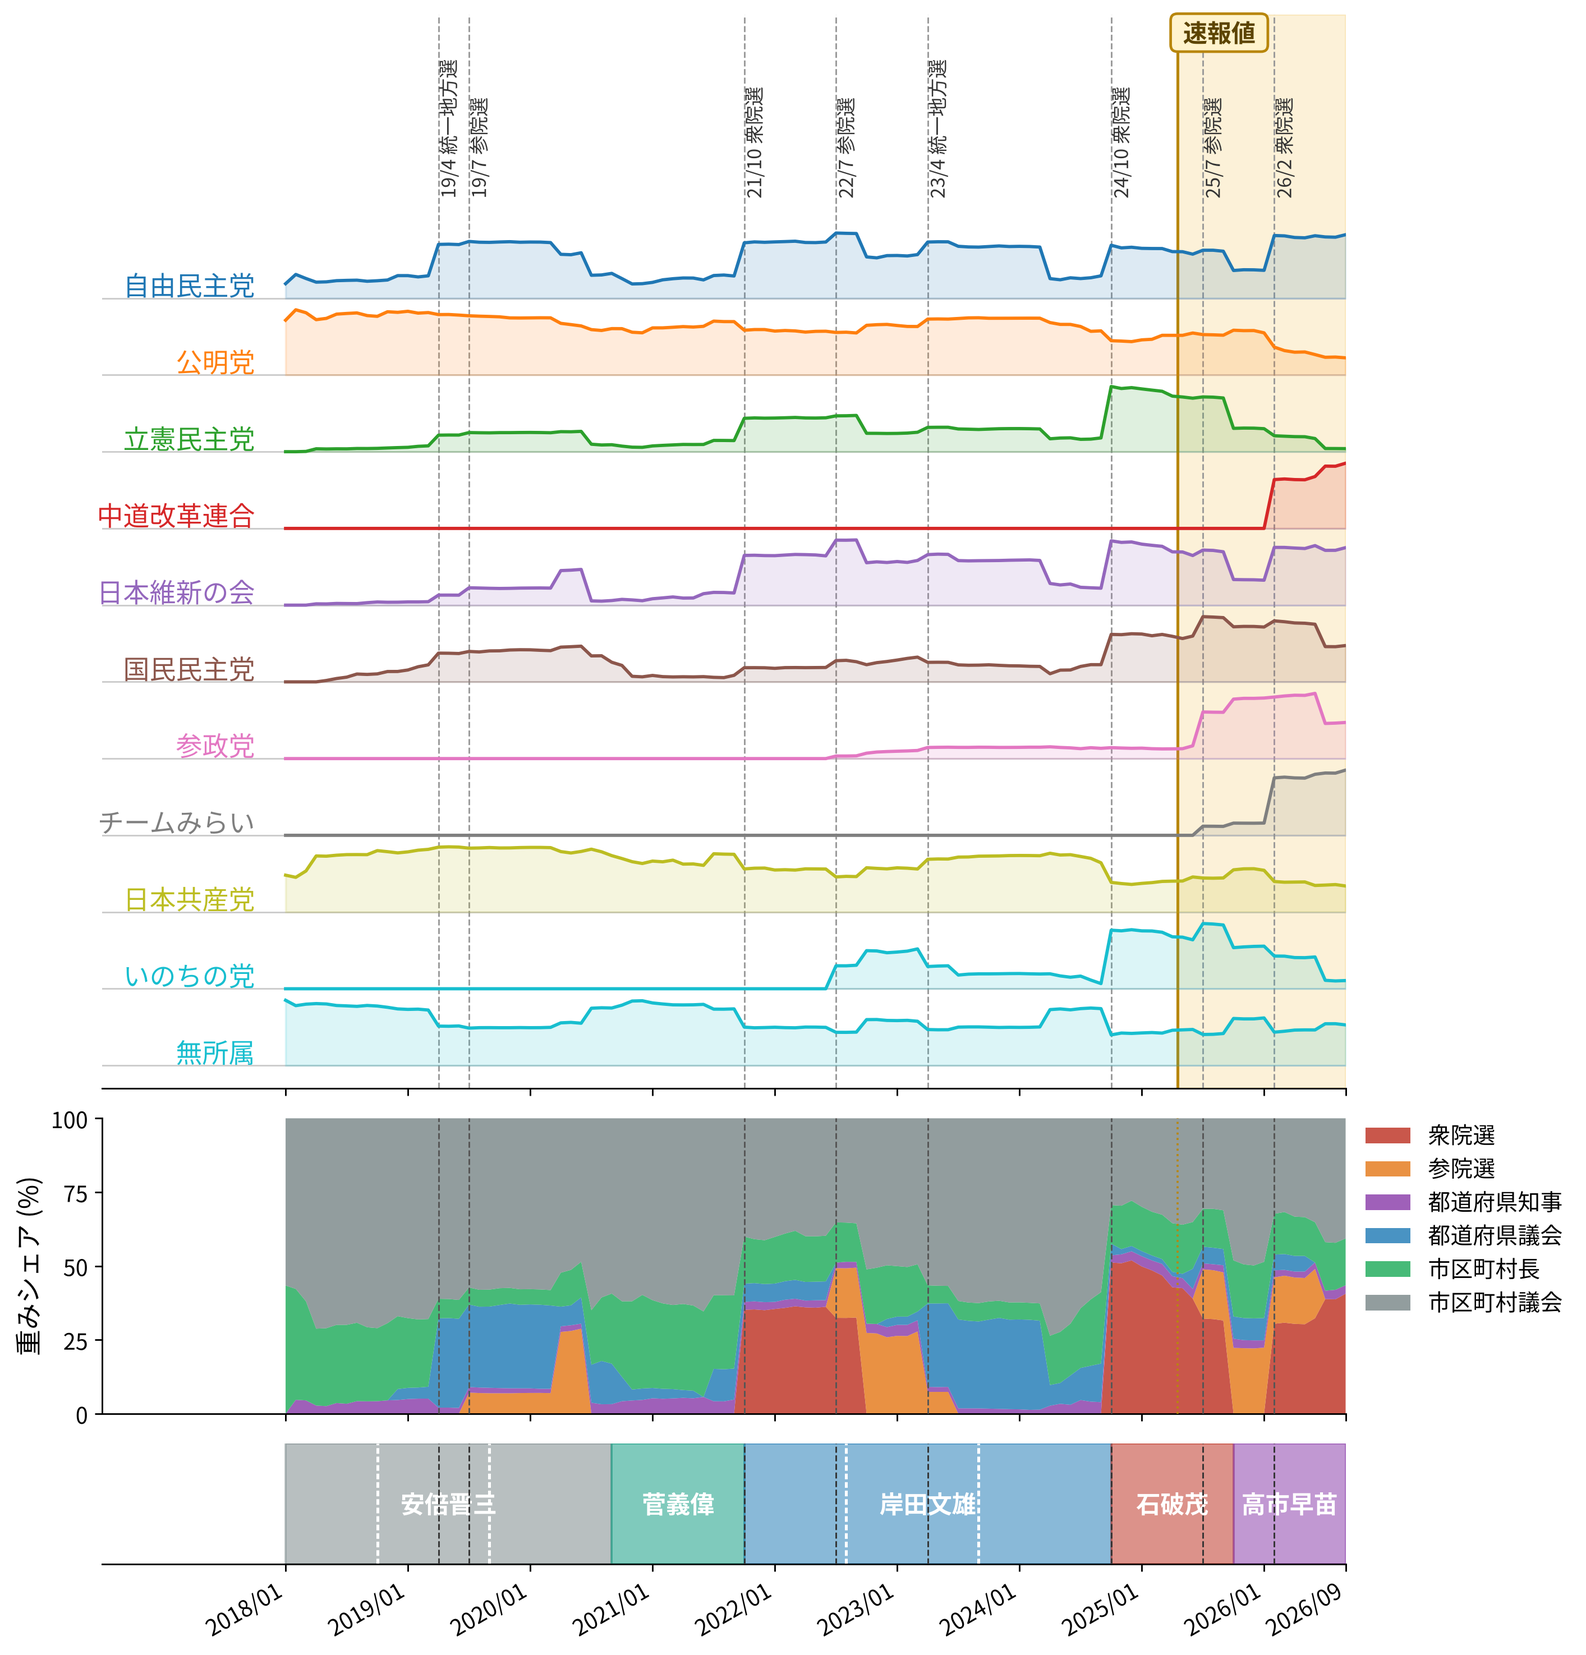
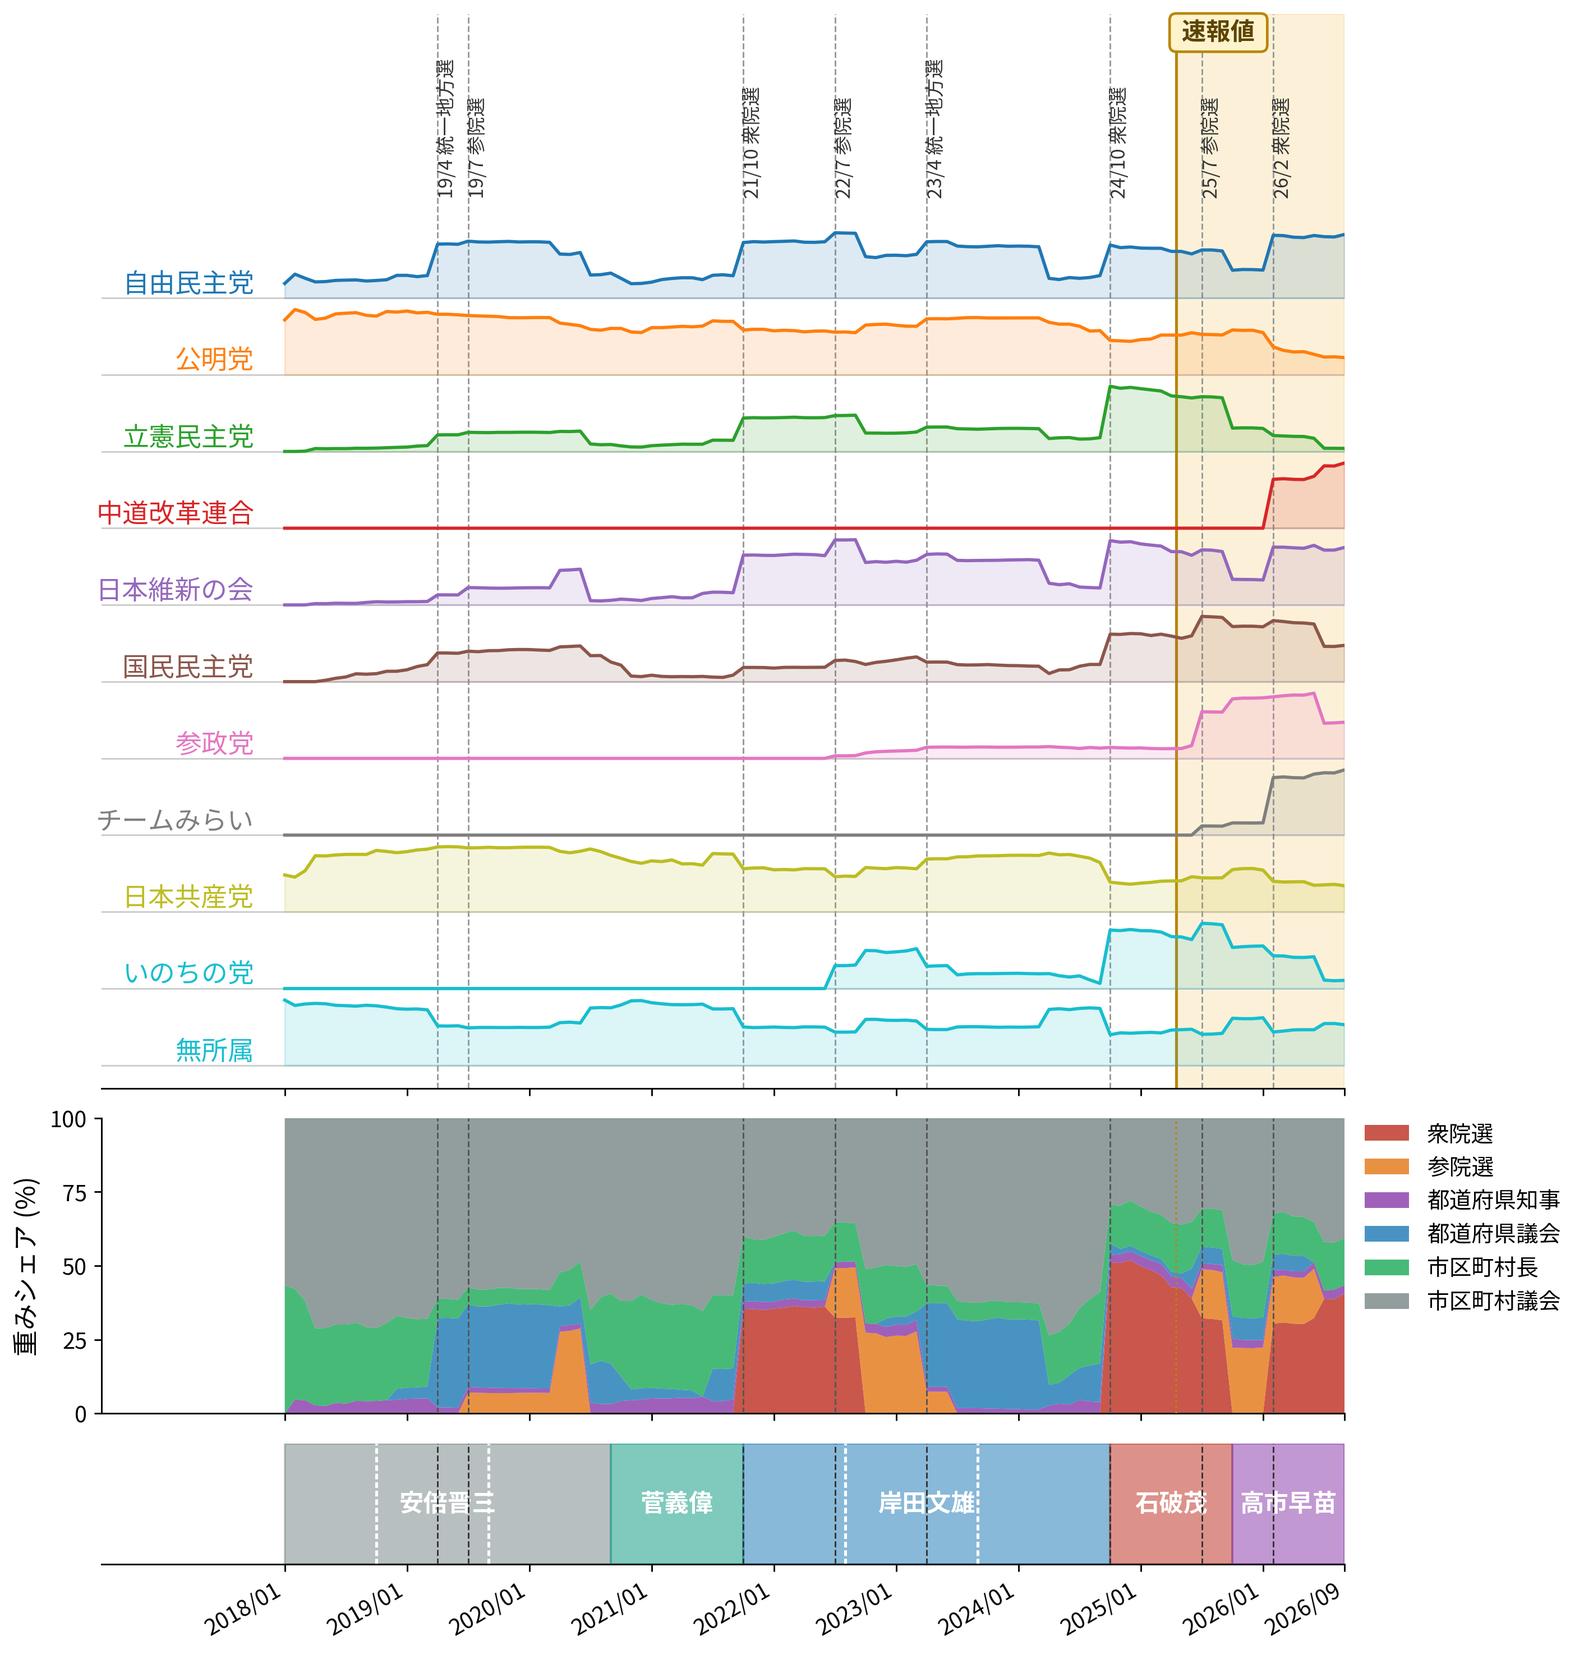
選挙結果キャッシュが新しい選挙を永久に反映しない不具合を修正し、更新クロールを別タイマーに分離する
- turnover.build_term_chain_cache()・municipal_registry.build_gikai_term_chain_cache()は
  done_idsに入った自治体を二度と再取得しない設計で、新しい首長・議会選挙が実施されても
  自動では反映されなかった(沖縄県知事選で発覚。1785自治体中、直近の当選から4年以上
  経過していた11件のうち1件がまさに沖縄県で、今回の選挙が該当していた)
- go2senkyo.jurisdiction_history()にforce引数を追加し、既にdone扱いの自治体を
  強制的に再確認してdone_idsから外すrefresh_stale_term_chains/refresh_stale_gikai_term_chains、
  および見つかった対象だけを再構築するrefresh_and_rebuild_*系の関数を追加した
- 記事生成(cli.py、毎月7日)とは別に、更新クロール専用のsystemdタイマー
  (seiryoku-shisu-refresh、毎月5日、数時間かかる見込みのためTimeoutStartSec=0)を新設した

Claude-Session: https://claude.ai/code/session_01TVss3nsN6jZajUMk5rKKyi

diff --git a/tests/test_turnover.py b/tests/test_turnover.py
@@ -302,7 +302,7 @@ def test_build_term_chain_stops_once_min_year_reached(monkeypatch):
         _row("A市長選挙", "2017/04/23", detail_url="https://x/3"),
         _row("A市長選挙", "2013/04/07", detail_url="https://x/4"),  # min_yearより前なので到達不要
     ]
-    monkeypatch.setattr(turnover.go2senkyo, "jurisdiction_history", lambda jid, kind: history)
+    monkeypatch.setattr(turnover.go2senkyo, "jurisdiction_history", lambda jid, kind, force=False: history)
 
     parties = {
         "https://x/1": "自由民主党",
@@ -330,7 +330,7 @@ def test_build_term_chain_stops_at_end_of_history_before_min_year(monkeypatch):
     history = [
         _row("A市長選挙", "2021/04/11", detail_url="https://x/1"),
     ]
-    monkeypatch.setattr(turnover.go2senkyo, "jurisdiction_history", lambda jid, kind: history)
+    monkeypatch.setattr(turnover.go2senkyo, "jurisdiction_history", lambda jid, kind, force=False: history)
     monkeypatch.setattr(
         turnover.go2senkyo,
         "parse_candidates",
@@ -340,6 +340,88 @@ def test_build_term_chain_stops_at_end_of_history_before_min_year(monkeypatch):
     chain = _build_term_chain(1, min_year=2000)
 
     assert chain == [{"vote_date": "2021-04-11", "party": "自由民主党"}]
+
+
+def test_refresh_stale_term_chains_keeps_id_when_no_newer_election(monkeypatch, tmp_path):
+    cache_path = tmp_path / "executive_term_chains.json"
+    monkeypatch.setattr(turnover, "TERM_CHAIN_CACHE_PATH", cache_path)
+    turnover.save_term_chain_cache(
+        {"chains": {"1": [{"vote_date": "2022-09-11", "party": "無所属"}]}, "done_ids": [1], "errors": {}}
+    )
+
+    history = [_row("沖縄県知事選挙", "2022/09/11", detail_url="https://x/1")]
+
+    def fake_history(jid, kind, force=False):
+        assert force is True, "強制再取得(force=True)でないと新しい選挙を見逃す"
+        return history
+
+    monkeypatch.setattr(turnover.go2senkyo, "jurisdiction_history", fake_history)
+
+    stats = turnover.refresh_stale_term_chains([1])
+
+    assert stats == {"checked": 1, "stale": []}
+    assert turnover.load_term_chain_cache()["done_ids"] == [1]
+
+
+def test_refresh_stale_term_chains_removes_id_when_newer_election_found(monkeypatch, tmp_path):
+    cache_path = tmp_path / "executive_term_chains.json"
+    monkeypatch.setattr(turnover, "TERM_CHAIN_CACHE_PATH", cache_path)
+    turnover.save_term_chain_cache(
+        {"chains": {"3962": [{"vote_date": "2022-09-11", "party": "無所属"}]}, "done_ids": [3962], "errors": {}}
+    )
+
+    history = [
+        _row("沖縄県知事選挙", "2026/09/13", detail_url="https://x/new"),
+        _row("沖縄県知事選挙", "2022/09/11", detail_url="https://x/1"),
+    ]
+    monkeypatch.setattr(turnover.go2senkyo, "jurisdiction_history", lambda jid, kind, force=False: history)
+
+    stats = turnover.refresh_stale_term_chains([3962])
+
+    assert stats == {"checked": 1, "stale": [3962]}
+    assert turnover.load_term_chain_cache()["done_ids"] == []
+
+
+def test_refresh_stale_term_chains_skips_ids_that_error_without_crashing(monkeypatch, tmp_path):
+    cache_path = tmp_path / "executive_term_chains.json"
+    monkeypatch.setattr(turnover, "TERM_CHAIN_CACHE_PATH", cache_path)
+    turnover.save_term_chain_cache({"chains": {}, "done_ids": [1], "errors": {}})
+
+    def boom(jid, kind, force=False):
+        raise RuntimeError("network down")
+
+    monkeypatch.setattr(turnover.go2senkyo, "jurisdiction_history", boom)
+
+    stats = turnover.refresh_stale_term_chains([1])
+
+    assert stats == {"checked": 1, "stale": []}
+    assert turnover.load_term_chain_cache()["done_ids"] == [1]
+
+
+def test_refresh_and_rebuild_term_chains_rebuilds_only_the_stale_id(monkeypatch, tmp_path):
+    cache_path = tmp_path / "executive_term_chains.json"
+    monkeypatch.setattr(turnover, "TERM_CHAIN_CACHE_PATH", cache_path)
+    turnover.save_term_chain_cache(
+        {"chains": {"3962": [{"vote_date": "2022-09-11", "party": "無所属"}]}, "done_ids": [3962], "errors": {}}
+    )
+
+    history = [
+        _row("沖縄県知事選挙", "2026/09/13", detail_url="https://x/new"),
+        _row("沖縄県知事選挙", "2022/09/11", detail_url="https://x/1"),
+    ]
+    monkeypatch.setattr(turnover.go2senkyo, "jurisdiction_history", lambda jid, kind, force=False: history)
+    monkeypatch.setattr(
+        turnover.go2senkyo,
+        "parse_candidates",
+        lambda url: [Candidate(name="甲", party="無所属", elected=True)],
+    )
+
+    stats = turnover.refresh_and_rebuild_term_chains([3962])
+
+    assert stats["stale"] == [3962]
+    state = turnover.load_term_chain_cache()
+    assert state["done_ids"] == [3962]  # build_term_chain_cacheで再度done扱いになる
+    assert state["chains"]["3962"][0]["vote_date"] == "2026-09-13"
 
 
 def test_build_turnover_month_snapshots_reconstructs_every_transition_in_chain(monkeypatch):

diff --git a/src/seiryoku/turnover.py b/src/seiryoku/turnover.py
@@ -150,10 +150,10 @@ def build_predecessor_cache(jichitai_ids: list[int] | None = None, checkpoint_ev
 TERM_CHAIN_CACHE_PATH = Path(__file__).resolve().parents[2] / "data" / "executive_term_chains.json"
 
 
-def _all_completed(jichitai_id: int) -> list:
+def _all_completed(jichitai_id: int, force: bool = False) -> list:
     """未定・投票率不明を除いた完了済み選挙を新しい順に全件返す
     (_two_most_recent_completedの「直近2件」制限を外した版)。"""
-    history = go2senkyo.jurisdiction_history(jichitai_id, "head")
+    history = go2senkyo.jurisdiction_history(jichitai_id, "head", force=force)
     return [
         row
         for row in history
@@ -229,6 +229,55 @@ def build_term_chain_cache(
 
     save_term_chain_cache(state)
     return state
+
+
+def refresh_stale_term_chains(jichitai_ids: list[int] | None = None) -> dict:
+    """done_ids入りした自治体は、build_term_chain_cache()が二度と再取得しない
+    (中断・再開可能にするための恒久スキップ)。そのため新しい首長選挙が実施されても
+    永久に反映されない不具合がある(2026-09、沖縄県知事選で発覚)。
+
+    この関数は既にdone_idsに入っている自治体について、go2senkyoの最新ページを
+    強制的に(util.fetchのキャッシュを無視して)再取得し、キャッシュ済みチェーンの
+    先頭より新しい完了済み選挙が無いか確認する。見つかればdone_idsから外し、
+    次にbuild_term_chain_cache()を呼んだときにそのIDだけが再構築されるようにする。
+
+    1788自治体を約4秒間隔(go2senkyo.comのレート制限)で確認するため数時間かかる
+    見込み。記事生成本体とは別の月次ジョブとして実行する想定(refresh_cli.py参照)。
+    """
+    state = load_term_chain_cache()
+    ids = jichitai_ids if jichitai_ids is not None else list(state["done_ids"])
+
+    stale: list[int] = []
+    for jid in ids:
+        try:
+            completed = _all_completed(jid, force=True)
+        except Exception:
+            continue
+        if not completed:
+            continue
+        newest_date = completed[0].vote_date.replace("/", "-")
+        cached_chain = state["chains"].get(str(jid), [])
+        cached_top = cached_chain[0]["vote_date"] if cached_chain else None
+        if newest_date != cached_top:
+            stale.append(jid)
+
+    if stale:
+        stale_set = set(stale)
+        state["done_ids"] = [jid for jid in state["done_ids"] if jid not in stale_set]
+        save_term_chain_cache(state)
+
+    return {"checked": len(ids), "stale": stale}
+
+
+def refresh_and_rebuild_term_chains(jichitai_ids: list[int] | None = None) -> dict:
+    """refresh_stale_term_chains()で見つかった更新対象だけを、その場でbuild_term_chain_cache()
+    により再構築する。build_term_chain_cache()をjichitai_ids無しで呼ぶと
+    「まだ一度もdoneになっていない全自治体」まで対象になってしまうため、
+    見つかったstaleなIDだけを明示的に渡す。"""
+    stats = refresh_stale_term_chains(jichitai_ids)
+    if stats["stale"]:
+        build_term_chain_cache(jichitai_ids=stats["stale"])
+    return stats
 
 
 def _predecessor_endorsing_parties(

diff --git a/tests/test_municipal_registry.py b/tests/test_municipal_registry.py
@@ -111,3 +111,69 @@ def test_all_completed_gikai_excludes_unheld_and_uncontested():
     ]
     completed = mr._all_completed_gikai(history)
     assert [row.detail_url for row in completed] == ["https://x/1"]
+
+
+def test_refresh_stale_gikai_term_chains_keeps_id_when_no_newer_election(monkeypatch, tmp_path):
+    cache_path = tmp_path / "gikai_term_chains.json"
+    monkeypatch.setattr(mr, "GIKAI_TERM_CHAIN_CACHE_PATH", cache_path)
+    mr.save_gikai_term_chain_cache(
+        {"chains": {"1": [{"vote_date": "2023-04-09", "seats": {"自由民主党": 1}}]}, "done_ids": [1], "errors": {}}
+    )
+
+    history = [_history_row("A市議会議員選挙", "2023/04/09", detail_url="https://x/1")]
+
+    def fake_history(jid, kind, force=False):
+        assert force is True, "強制再取得(force=True)でないと新しい選挙を見逃す"
+        return history
+
+    monkeypatch.setattr(mr.go2senkyo, "jurisdiction_history", fake_history)
+
+    stats = mr.refresh_stale_gikai_term_chains([1])
+
+    assert stats == {"checked": 1, "stale": []}
+    assert mr.load_gikai_term_chain_cache()["done_ids"] == [1]
+
+
+def test_refresh_stale_gikai_term_chains_removes_id_when_newer_election_found(monkeypatch, tmp_path):
+    cache_path = tmp_path / "gikai_term_chains.json"
+    monkeypatch.setattr(mr, "GIKAI_TERM_CHAIN_CACHE_PATH", cache_path)
+    mr.save_gikai_term_chain_cache(
+        {"chains": {"1": [{"vote_date": "2019-04-07", "seats": {"自由民主党": 1}}]}, "done_ids": [1], "errors": {}}
+    )
+
+    history = [
+        _history_row("A市議会議員選挙", "2023/04/09", detail_url="https://x/new"),
+        _history_row("A市議会議員選挙", "2019/04/07", detail_url="https://x/1"),
+    ]
+    monkeypatch.setattr(mr.go2senkyo, "jurisdiction_history", lambda jid, kind, force=False: history)
+
+    stats = mr.refresh_stale_gikai_term_chains([1])
+
+    assert stats == {"checked": 1, "stale": [1]}
+    assert mr.load_gikai_term_chain_cache()["done_ids"] == []
+
+
+def test_refresh_and_rebuild_gikai_term_chains_rebuilds_only_the_stale_id(monkeypatch, tmp_path):
+    cache_path = tmp_path / "gikai_term_chains.json"
+    monkeypatch.setattr(mr, "GIKAI_TERM_CHAIN_CACHE_PATH", cache_path)
+    mr.save_gikai_term_chain_cache(
+        {"chains": {"1": [{"vote_date": "2019-04-07", "seats": {"自由民主党": 1}}]}, "done_ids": [1], "errors": {}}
+    )
+
+    history = [
+        _history_row("A市議会議員選挙", "2023/04/09", detail_url="https://x/new"),
+        _history_row("A市議会議員選挙", "2019/04/07", detail_url="https://x/1"),
+    ]
+    monkeypatch.setattr(mr.go2senkyo, "jurisdiction_history", lambda jid, kind, force=False: history)
+    monkeypatch.setattr(
+        mr.go2senkyo,
+        "parse_candidates",
+        lambda url: [Candidate(name="甲", party="自由民主党", elected=True)],
+    )
+
+    stats = mr.refresh_and_rebuild_gikai_term_chains([1])
+
+    assert stats["stale"] == [1]
+    state = mr.load_gikai_term_chain_cache()
+    assert state["done_ids"] == [1]
+    assert state["chains"]["1"][0]["vote_date"] == "2023-04-09"

diff --git a/src/seiryoku/municipal_registry.py b/src/seiryoku/municipal_registry.py
@@ -309,6 +309,50 @@ def build_gikai_term_chain_cache(
     return state
 
 
+def refresh_stale_gikai_term_chains(jichitai_ids: list[int] | None = None) -> dict:
+    """turnover.refresh_stale_term_chains()の議会版。done_ids入りした自治体は
+    build_gikai_term_chain_cache()が二度と再取得しないため、新しい議会選挙が
+    実施されても永久に反映されない同じ不具合がある(2026-09発覚)。
+
+    既にdone_idsに入っている自治体について、go2senkyoの最新ページを強制的に
+    再取得し、キャッシュ済みチェーンの先頭より新しい完了済み選挙が無いか確認する。
+    見つかればdone_idsから外す。"""
+    state = load_gikai_term_chain_cache()
+    ids = jichitai_ids if jichitai_ids is not None else list(state["done_ids"])
+
+    stale: list[int] = []
+    for jid in ids:
+        try:
+            history = go2senkyo.jurisdiction_history(jid, "gikai", force=True)
+        except Exception:
+            continue
+        completed = _all_completed_gikai(history)
+        if not completed:
+            continue
+        newest_date = completed[0].vote_date.replace("/", "-")
+        cached_chain = state["chains"].get(str(jid), [])
+        cached_top = cached_chain[0]["vote_date"] if cached_chain else None
+        if newest_date != cached_top:
+            stale.append(jid)
+
+    if stale:
+        stale_set = set(stale)
+        state["done_ids"] = [jid for jid in state["done_ids"] if jid not in stale_set]
+        save_gikai_term_chain_cache(state)
+
+    return {"checked": len(ids), "stale": stale}
+
+
+def refresh_and_rebuild_gikai_term_chains(jichitai_ids: list[int] | None = None) -> dict:
+    """refresh_stale_gikai_term_chains()で見つかった更新対象だけを、その場で
+    build_gikai_term_chain_cache()により再構築する(引数無しで呼ぶと未処理の
+    全自治体まで対象になってしまうため、見つかったIDだけを明示的に渡す)。"""
+    stats = refresh_stale_gikai_term_chains(jichitai_ids)
+    if stats["stale"]:
+        build_gikai_term_chain_cache(jichitai_ids=stats["stale"])
+    return stats
+
+
 def coverage_report(state: dict, ids: list[int] | None = None) -> dict:
     """網羅率を返す。「不明」を推測で埋めていないことが分かるよう明示する。"""
     ids = ids if ids is not None else load_jichitai_ids()

diff --git a/src/seiryoku/refresh_cli.py b/src/seiryoku/refresh_cli.py
@@ -1,0 +1,30 @@
+"""選挙結果キャッシュ(首長・議会それぞれのterm chain)の更新クロール。
+
+turnover.build_term_chain_cache()・municipal_registry.build_gikai_term_chain_cache()は
+「一度処理した自治体は二度と再取得しない」設計(中断・再開可能にするための恒久
+done_ids)なので、新しい首長・議会選挙が実施されても自動では反映されない
+(2026-09、沖縄県知事選で発覚)。
+
+この対応として、対象の約1788自治体を毎回強制的に(util.fetchのキャッシュを
+無視して)確認し直すrefresh_and_rebuild_*_term_chains()を用意した。go2senkyo.com
+のレート制限(4秒間隔)により首長・議会それぞれ単独で1788件を舐めるだけでも
+2時間程度かかり、両方で約4時間の見込み(2026-09にユーザー確認済み)。記事生成
+(cli.py、月次)とは別のsystemdタイマーで、記事生成より数日前倒しで実行する。
+"""
+from __future__ import annotations
+
+from . import municipal_registry, turnover
+
+
+def main() -> None:
+    print("首長の選挙結果キャッシュを確認中...")
+    head_stats = turnover.refresh_and_rebuild_term_chains()
+    print(f"  確認: {head_stats['checked']}件, 更新対象: {len(head_stats['stale'])}件 {head_stats['stale']}")
+
+    print("議会の選挙結果キャッシュを確認中...")
+    gikai_stats = municipal_registry.refresh_and_rebuild_gikai_term_chains()
+    print(f"  確認: {gikai_stats['checked']}件, 更新対象: {len(gikai_stats['stale'])}件 {gikai_stats['stale']}")
+
+
+if __name__ == "__main__":
+    main()

diff --git a/src/seiryoku/fetch/go2senkyo.py b/src/seiryoku/fetch/go2senkyo.py
@@ -33,10 +33,14 @@ class Candidate:
     elected: bool
 
 
-def jurisdiction_history(jichitai_id: int, kind: str = "head") -> list[ElectionHistoryRow]:
-    """自治体(jichitai_id)の首長("head")または議会("gikai")の選挙履歴を返す。新しい順。"""
+def jurisdiction_history(jichitai_id: int, kind: str = "head", force: bool = False) -> list[ElectionHistoryRow]:
+    """自治体(jichitai_id)の首長("head")または議会("gikai")の選挙履歴を返す。新しい順。
+
+    force=Trueで、util.fetchの永続キャッシュを無視して再取得する(新しい選挙結果が
+    出ていないか確認する用途、turnover.refresh_stale_term_chains参照)。
+    """
     url = f"{_BASE}/local/jichitai/{jichitai_id}/{kind}"
-    html = fetch(url).decode("utf-8", errors="ignore")
+    html = fetch(url, force=force).decode("utf-8", errors="ignore")
     soup = BeautifulSoup(html, "html.parser")
 
     rows: list[ElectionHistoryRow] = []
